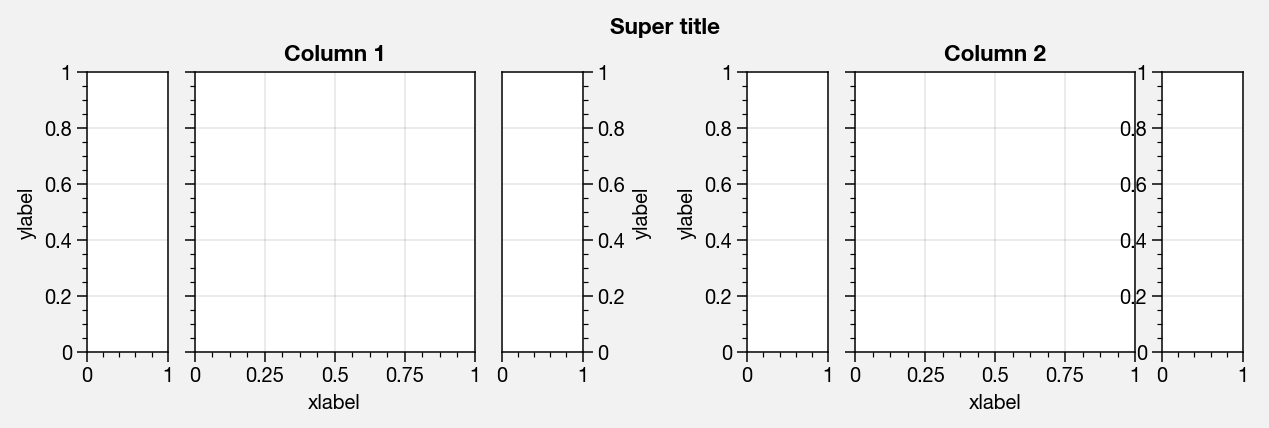
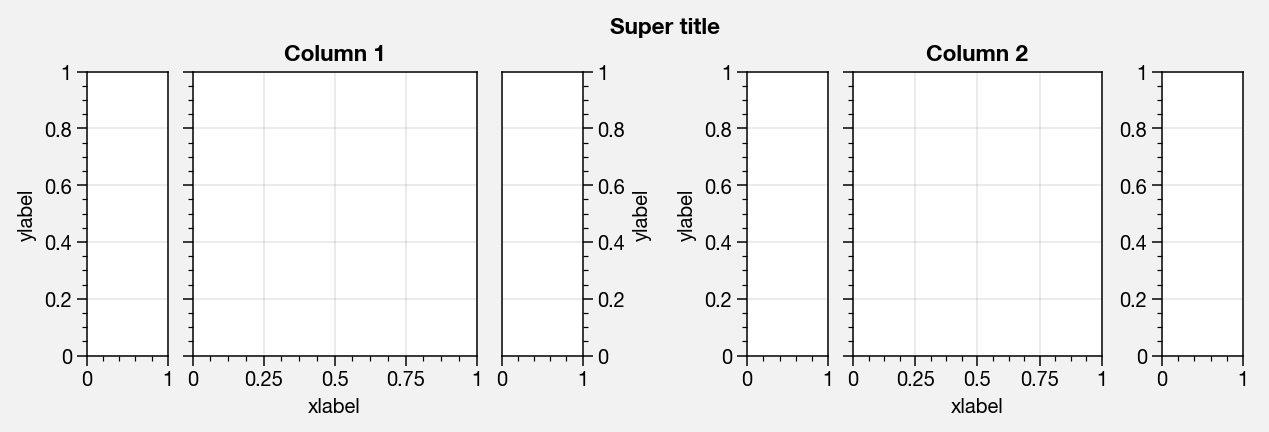
Fix example, restructure docs

diff --git a/proplot/axes.py b/proplot/axes.py
@@ -192,7 +192,7 @@ def _parse_args(args):
 
 def wrapper_check_centers(func):
     """
-    Check shape of arguments passed to methods like
+    Checks shape of arguments passed to methods like
     `~matplotlib.axes.Axes.contourf`. Ensures we have coordinate *centers*,
     and will calculate centers if coordinate edges were provided.
 
@@ -232,7 +232,7 @@ def wrapper_check_centers(func):
 
 def wrapper_check_edges(func):
     """
-    Check shape of arguments passed to methods like
+    Checks shape of arguments passed to methods like
     `~matplotlib.axes.Axes.pcolormesh`. Ensures we have coordinate *edges*,
     and will *estimate* edges if coordinate centers were provided.
 

diff --git a/docs/showcase.rst b/docs/showcase.rst
@@ -1,13 +1,18 @@
 
+General introduction
+====================
+
 APIS
-====
+----
 
 Matplotlib has two APIs – the “pyplot” API (which is MATLAB-like), and
 the “object-oriented” API (which is more “pythonic”, more clear, more
-flexible, and you should consider using!). Contrary to the similar
-names, this package is not meant to be a pyplot replacement – it adds to
-the “object-oriented” API by subclassing matplotlib Artists classes,
-like `~matplotlib.axes.Axes` and `~matplotlib.figure.Figure`.
+flexible, and you should consider using!).
+
+Contrary to the similar names, this package is not meant to be a pyplot
+replacement – it adds to the “object-oriented” API by subclassing
+matplotlib Artists classes, like `~matplotlib.axes.Axes` and
+`~matplotlib.figure.Figure`.
 
 .. code:: ipython3
 
@@ -22,7 +27,7 @@ like `~matplotlib.axes.Axes` and `~matplotlib.figure.Figure`.
 
 
 
-.. image:: showcase/showcase_1_1.png
+.. image:: showcase/showcase_2_1.png
    :width: 450px
    :height: 270px
 
@@ -40,13 +45,10 @@ like `~matplotlib.axes.Axes` and `~matplotlib.figure.Figure`.
 
 
 
-.. image:: showcase/showcase_2_1.png
+.. image:: showcase/showcase_3_1.png
    :width: 450px
    :height: 270px
 
-
-General
-=======
 
 The basics
 ----------
@@ -212,7 +214,7 @@ examples are below.
 
     import proplot as plot
     plot.nbsetup()
-    f, axs = plot.subplots(axwidth=3, ncols=2, span=False, share=0, innerpanels='lr', inner_kw={'rshare':False}, innertight=False)
+    f, axs = plot.subplots(axwidth=3, ncols=2, span=False, share=0, innerpanels='lr', inner_kw={'rshare':False})
     axs.format(ylabel='ylabel', xlabel='xlabel')
     axs[0].rpanel.format(ylabel='ylabel', ytickloc='right', yticklabelloc='right', suptitle='Super title', collabels=['Column 1', 'Column 2'])
 
@@ -220,7 +222,7 @@ examples are below.
 
 .. image:: showcase/showcase_17_0.png
    :width: 634px
-   :height: 214px
+   :height: 216px
 
 
 Formatting your axes
@@ -1154,6 +1156,12 @@ is powered by the `~proplot.axes.cartopy_gridfix_wrapper` and
 
 
 .. image:: showcase/showcase_72_1.png
+   :width: 630px
+   :height: 434px
+
+
+
+.. image:: showcase/showcase_72_2.png
    :width: 630px
    :height: 434px
 

diff --git a/docs/index.rst b/docs/index.rst
@@ -50,7 +50,7 @@ and built-in geographic projections.
 
 The next most important utility is the ``format`` method on `~proplot.axes.BaseAxes`, which calls so-called ``smart_update`` methods on the `~proplot.axes.BaseAxes`, `~proplot.axes.XYAxes`, `~proplot.axes.CartopyAxes`, and `~proplot.axes.BasemapAxes` axes types. The latter three types can all be returned by `~proplot.subplots.subplots`, depending on the arguments you used. Use `~proplot.axes.BaseAxes.format` to fine-tune your axis properties, titles, labels, limits, and much more. See :ref:`Table of projections` for the projections available to cartopy and basemap.
 
-To get started, check out the :ref:`Tutorial`.
+To get started, check out the :ref:`General introduction`.
 Hopefully, you will find this API to be **less verbose** and **more powerful** than the builtin `pyplot and object-oriented <https://matplotlib.org/api/api_overview.html>`__ matplotlib APIs.
 
 .. This is just so top-level headers in the showcase.rst

diff --git a/docs/tutorial.rst b/docs/tutorial.rst
@@ -1,9 +1,3 @@
-========
-Tutorial
-========
-
-Below is a showcase of ProPlot's features. Once you have a general understanding of the API, see the :ref:`documentation` of ProPlot's individual classes and functions.
-
 .. include:: showcase.rst
 
 .. WARNING:
